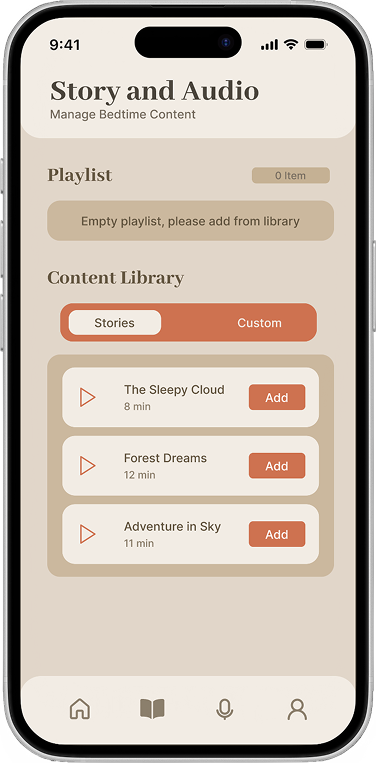
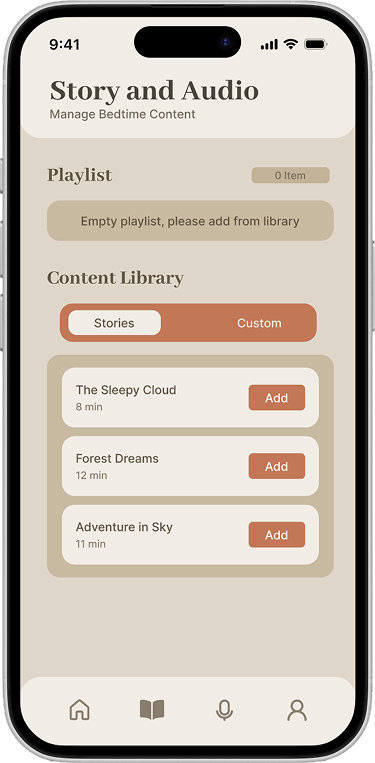
skeleton created

diff --git a/lumino.html b/lumino.html
@@ -189,6 +189,8 @@ header.hero p.dek{margin-top:20px;font-size:15px;line-height:1.5;color:var(--mut
 }
 .ph-hero{margin-top:40px;width:100%;aspect-ratio:16/9}
 .ph-inline{margin-top:24px;width:100%;aspect-ratio:16/9}
+.ph-row{margin-top:24px;display:flex;gap:16px}
+.ph-row .ph{margin-top:0;flex:1 1 0;aspect-ratio:16/9}
 .ph img{width:100%;height:100%;object-fit:cover;display:block}
 .ph .cap{
   position:absolute;left:0;right:0;bottom:0;
@@ -215,7 +217,8 @@ section.block:first-of-type{padding-top:56px;border-top:1px solid var(--line);ma
 .sec-grid + .sec-grid{margin-top:44px}
 .sec-body > p:first-child,
 .sec-body > ul:first-child{margin-top:0}
-.ph-inline + .sec-grid{margin-top:32px}
+.ph-inline + .sec-grid,
+.ph-row + .sec-grid{margin-top:32px}
 
 /* The tag floats above sec-head instead of taking up flow space, so
    sec-head's own top edge is the H2's top edge — that's what the grid's
@@ -295,6 +298,7 @@ ul.insights em{font-style:italic;color:var(--ink)}
 @media (max-width:900px){
   .iteration-block{flex-direction:column;gap:16px}
   .compare-row{flex-wrap:wrap}
+  .ph-row{flex-direction:column}
 }
 
 /* ── Pull quote: flat, no fill — a hairline rule carries it. Its size is
@@ -440,7 +444,10 @@ footer.pagefoot a:hover{color:var(--ink)}
               <p>Most products built for this moment are designed for the parent: monitors, trackers, routine apps. We wanted to build a product that connects the child with the parent while making this stage easier for both.</p>
             </div>
           </div>
-          <div class="ph ph-inline"><img src="images/LuminoNoSleep.jpg" alt="Child unable to sleep alone at night"></div>
+          <div class="ph-row">
+            <div class="ph"><img src="images/LuminoNoSleep.jpg" alt="Child unable to sleep alone at night"></div>
+            <div class="ph"><img src="images/LuminoNoSleep2Crop.jpg" alt="Child unable to sleep alone at night, close up"></div>
+          </div>
         </div>
       </section>
 
@@ -549,23 +556,23 @@ footer.pagefoot a:hover{color:var(--ink)}
                 <div class="cmp-header"><span>Before</span><span>After</span></div>
                 <div class="compare-slider single" data-compare>
                   <div class="cmp-frame">
-                    <img class="cmp-after" src="images/LuminalAfterPage1.png" alt="Home screen, after">
-                    <div class="cmp-before-wrap"><img src="images/LuminalOriginalPage1.png" alt="Home screen, before"></div>
-                    <div class="cmp-handle"></div>
-                  </div>
-                </div>
-                <div class="cmp-caption">Home</div>
-              </div>
-              <div class="compare-unit">
-                <div class="cmp-header"><span>Before</span><span>After</span></div>
-                <div class="compare-slider single" data-compare>
-                  <div class="cmp-frame">
                     <video class="cmp-after cmp-after-video" src="images/LuminalAfterPage2.mp4" muted loop playsinline preload="auto"></video>
                     <div class="cmp-before-wrap"><img src="images/LuminalOriginalPage2.png" alt="Story and Audio screen, before"></div>
                     <div class="cmp-handle"></div>
                   </div>
                 </div>
                 <div class="cmp-caption">Story &amp; Audio</div>
+              </div>
+              <div class="compare-unit">
+                <div class="cmp-header"><span>Before</span><span>After</span></div>
+                <div class="compare-slider single" data-compare>
+                  <div class="cmp-frame">
+                    <img class="cmp-after" src="images/LuminalAfterPage1.png" alt="Home screen, after">
+                    <div class="cmp-before-wrap"><img src="images/LuminalOriginalPage1.png" alt="Home screen, before"></div>
+                    <div class="cmp-handle"></div>
+                  </div>
+                </div>
+                <div class="cmp-caption">Home</div>
               </div>
             </div>
             <div class="iteration-text">

diff --git a/index.html b/index.html
@@ -65,7 +65,7 @@ canvas{display:block}
 @media (prefers-reduced-motion:reduce){.intro-frame{animation:none;opacity:1;transform:none}}
 .no-intro-anim .intro-frame{animation:none;opacity:1;transform:none}
 .intro-name{font-family:'Source Serif 4',serif;font-style:italic;font-weight:300;font-size:19.5cqi;line-height:1.1;color:#111;white-space:nowrap}
-.intro-photo{margin-top:18px;width:100%;aspect-ratio:1/1;border-radius:16px;background:#d7d7d7}
+.intro-photo{margin-top:18px;width:100%;aspect-ratio:1/1;border-radius:16px;background:#d7d7d7;object-fit:cover;display:block}
 .intro-bio{font-size:16px;font-weight:400;line-height:1.2;color:#111}
 .intro-contact{display:flex;align-items:center;justify-content:space-between;gap:12px;flex-wrap:wrap}
 .intro-icons{display:flex;align-items:center;gap:10px}
@@ -116,7 +116,7 @@ if(sessionStorage.getItem('aboutFromPlay')){
   <div id="introRail" aria-label="About Ginny">
     <div class="intro-frame id">
       <div class="intro-name">Ginny Dong</div>
-      <div class="intro-photo" aria-hidden="true"></div>
+      <img class="intro-photo" src="images/PersonalImage.png" alt="Ginny Dong"/>
     </div>
     <div class="intro-frame bio">
       <p class="intro-bio">Ginny is a UX designer with a background in human factors psychology and visual arts. She studies how people think and decide, and turn that into interfaces that are clear and easy to trust.</p>

diff --git a/play.html b/play.html
@@ -72,7 +72,7 @@ nav{background:#fff;border-radius:999px;display:flex;align-items:center;gap:10px
 .no-intro-anim .intro-frame{animation:none;opacity:1;transform:none}
 
 .intro-name{font-family:'Source Serif 4',serif;font-style:italic;font-weight:300;font-size:19.5cqi;line-height:1.1;color:#111;white-space:nowrap}
-.intro-photo{margin-top:18px;width:100%;aspect-ratio:1/1;border-radius:16px;background:#d7d7d7}
+.intro-photo{margin-top:18px;width:100%;aspect-ratio:1/1;border-radius:16px;background:#d7d7d7;object-fit:cover;display:block}
 .intro-bio{font-size:16px;font-weight:400;line-height:1.2;color:#111}
 .intro-contact{display:flex;align-items:center;justify-content:space-between;gap:12px;flex-wrap:wrap}
 .intro-icons{display:flex;align-items:center;gap:10px}
@@ -144,7 +144,7 @@ if(sessionStorage.getItem('playFromAbout')){
   <div id="introRail" aria-label="About Ginny">
     <div class="intro-frame id">
       <div class="intro-name">Ginny Dong</div>
-      <div class="intro-photo" aria-hidden="true"></div>
+      <img class="intro-photo" src="images/PersonalImage.png" alt="Ginny Dong"/>
     </div>
     <div class="intro-frame bio">
       <p class="intro-bio">Ginny is a UX designer with a background in human factors psychology and visual arts. She studies how people think and decide, and turn that into interfaces that are clear and easy to trust.</p>
